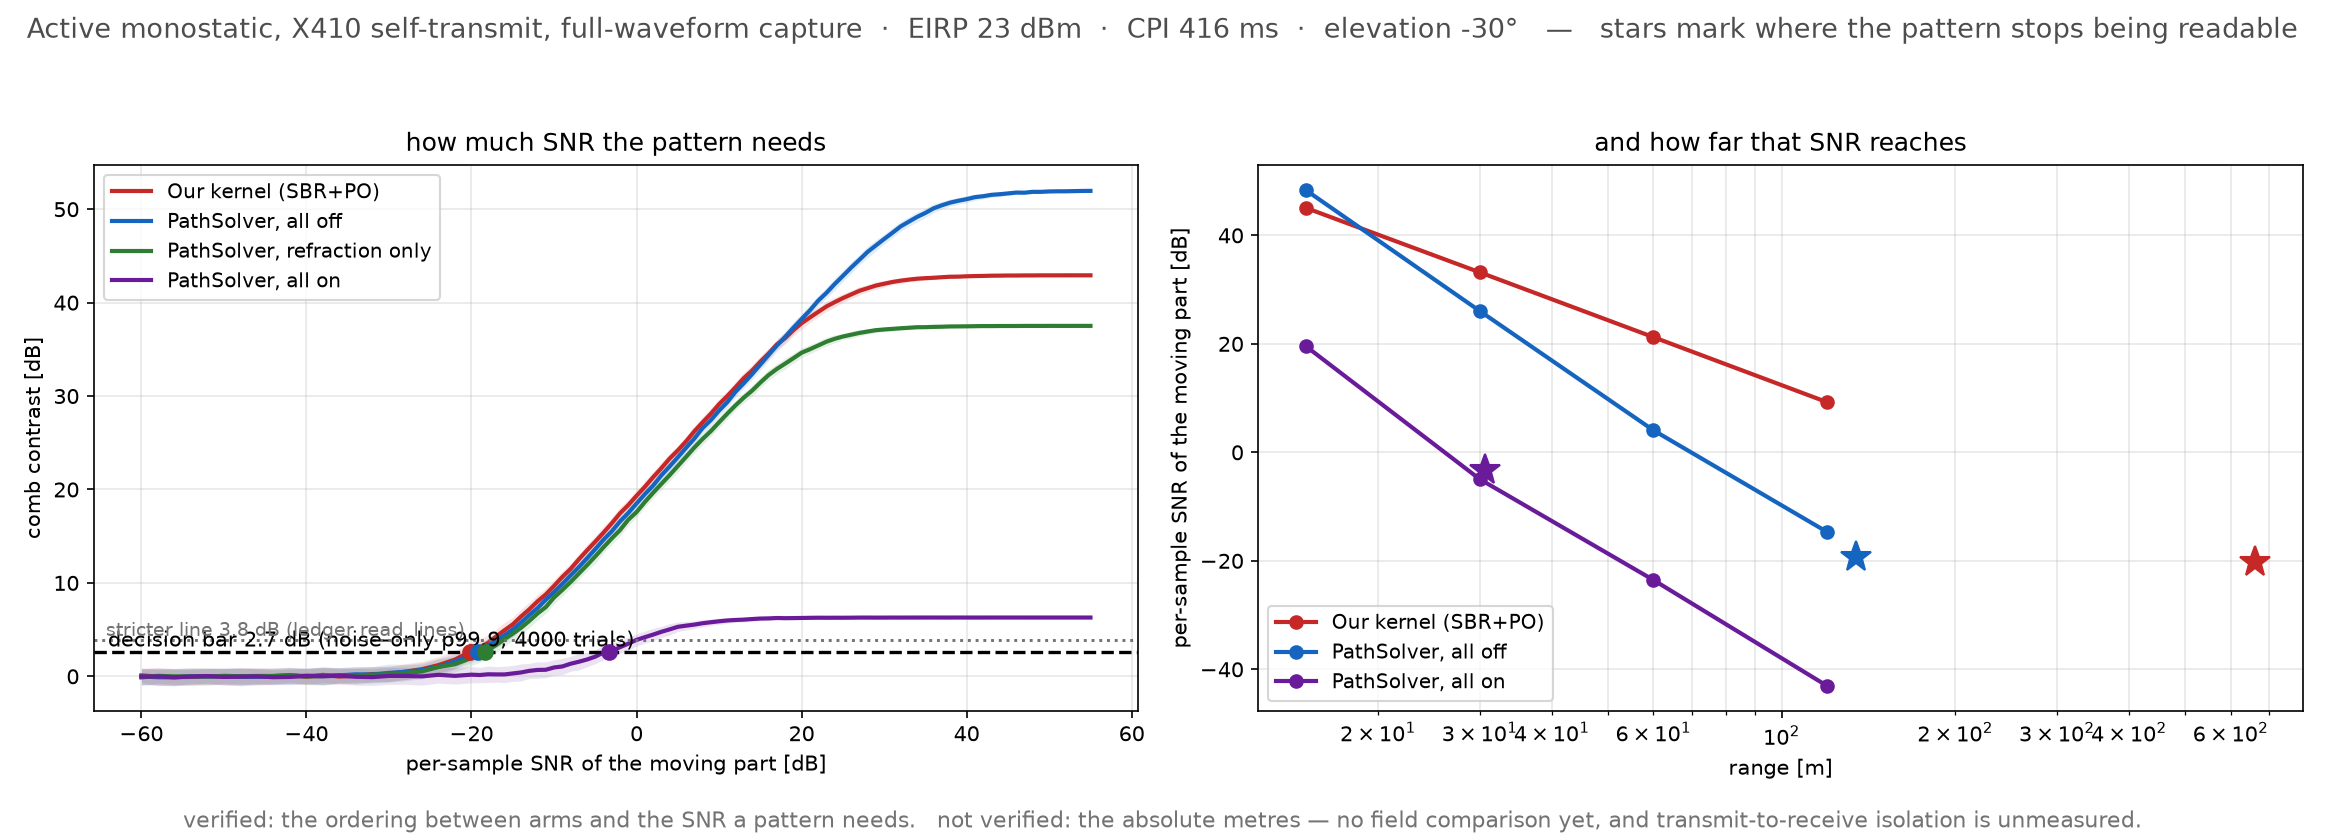
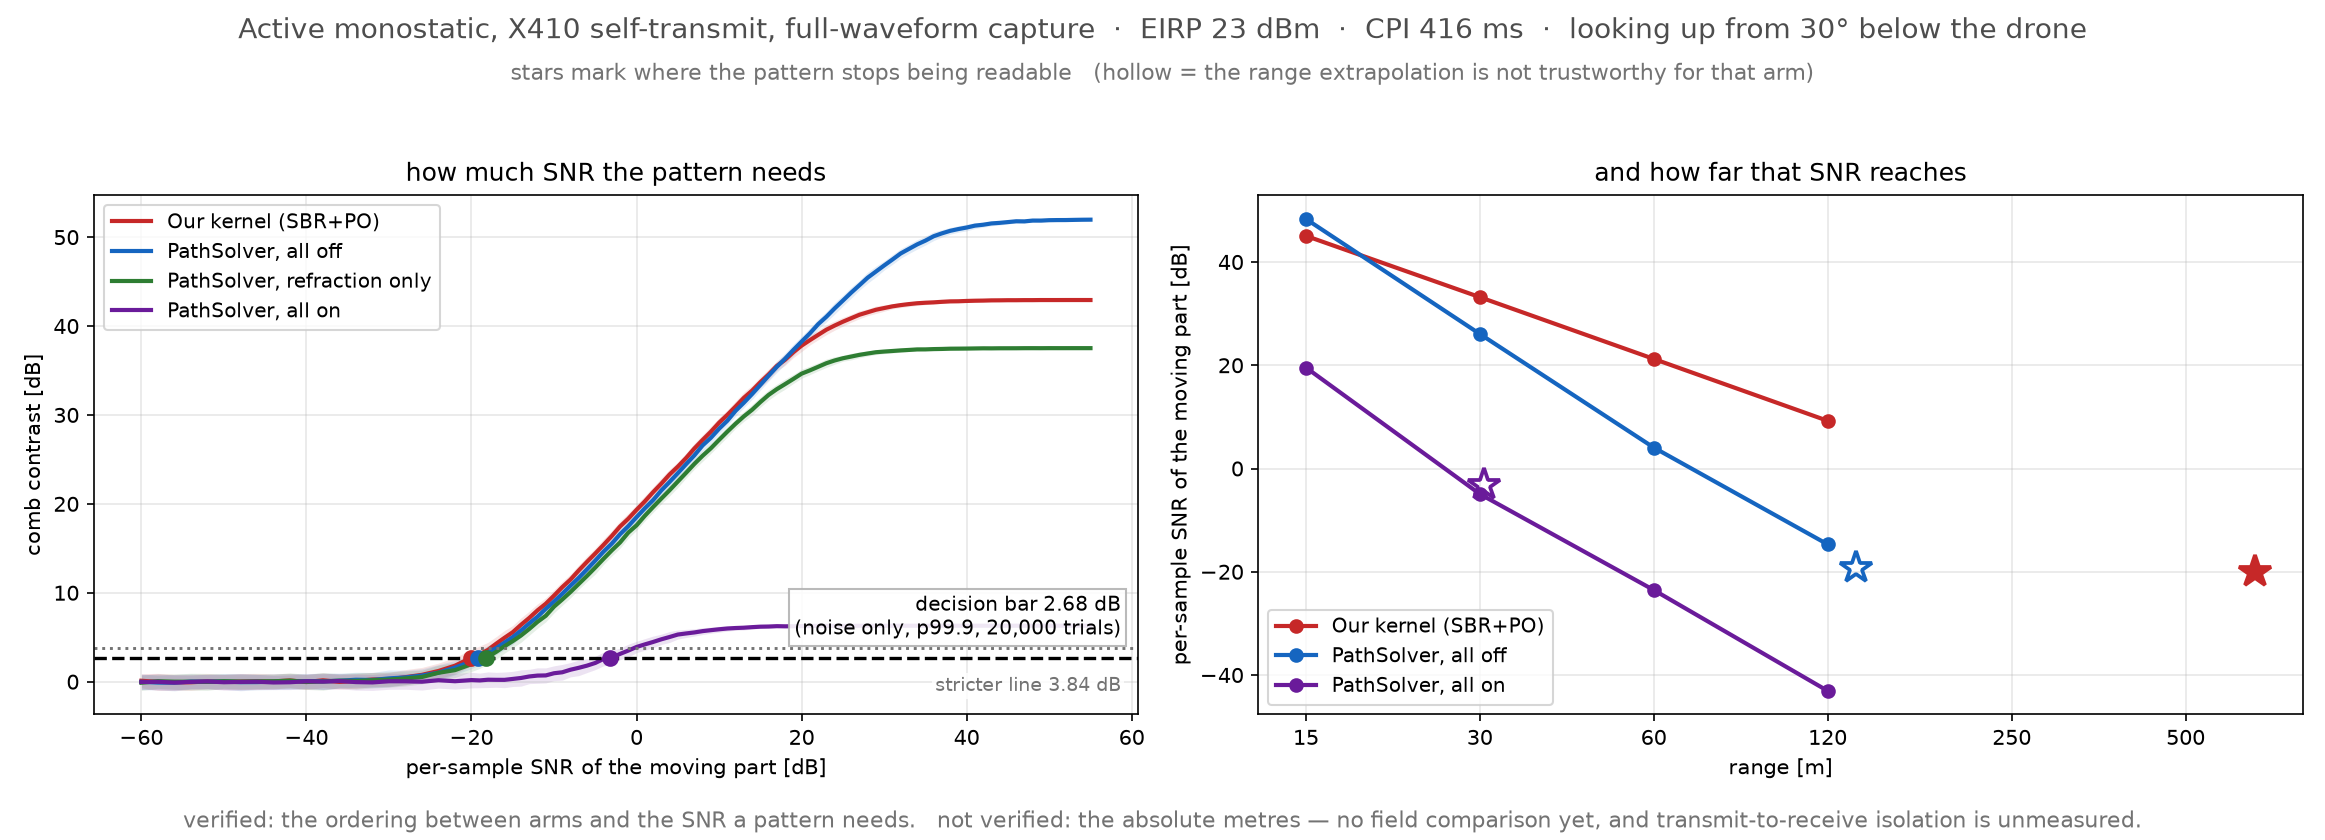
그림 정정 재생성 — 기하 문구·판정 막대 정본(20,000 시행)·라벨 겹침·거리 외삽 표시
- 캡션 «30° below level» → «looking up from 30° below the drone» (스위치 격자 4 장 ·
  클러터 3 장 · SNR 패널). 앙각 부호가 «센서가 아래에서 올려다봄» 이라 옛 문구는 반대였다.
- ⭐판정 막대를 게이트 **20,000 시행 경험적 p99.9 = 2.68 dB** 로 정본화(옛 4,000 시행 근사 2.66).
  정규 근사와 차 0.02 dB — 근사가 맞았음을 검산으로 남김.
- 라벨 겹침 제거(막대 두 줄을 오른쪽 상자로), 거리축 눈금 고정(15·30·60·120·250·500 m).
- ⛔거리 외삽을 못 믿는 팔(ps_off·ps_phys, 측정 p 가 규약과 2.5 벌어짐)은 별을 **비워** 그린다.
- SNR 패널 ⓐ(무늬가 녹는 STFT 다섯 장) 신설 — noise_snr_maps.png.

diff --git a/benchmark/noise_snr_figure_0818.py b/benchmark/noise_snr_figure_0818.py
@@ -76,6 +76,18 @@ def null_bar_db(el=EL):
         if f"{el:+.0f}" in FRAME["null_control"] else FRAME["null_control"][str(int(el))]
     cc = n["comb_contrast_db"]
     bar = cc["mean"] + 3.090 * cc["std"]
+    n_trial = n["n_trial"]
+    # ⭐정본은 게이트가 20,000 시행으로 **경험적** p99.9 를 낸 값이다(2026-08-18).
+    #   있으면 그것을 쓰고, 위 정규 근사는 검산용으로만 남긴다.
+    try:
+        G = json.load(open(os.path.join(ROOT, "outputs",
+                                        "noise_main_gates_n20000_0818.json"), encoding="utf-8"))
+        b = G["G3_bars"][f"el_minus{abs(int(el))}"]
+        bar_canon, n_trial = float(b["bar_noise_db"]), int(b["n_null"])
+        approx_err = round(abs(bar - bar_canon), 3)
+        bar = bar_canon
+    except Exception:
+        bar_canon, approx_err = None, None
     # 검산 — 정규 근사가 p95 를 얼마나 맞히나
     p95_pred = cc["mean"] + 1.645 * cc["std"]
     # ⚠원장에는 **선이 둘** 있다. 사전등록이 정한 막대는 p99.9 이고,
@@ -84,7 +96,10 @@ def null_bar_db(el=EL):
     rl = FRAME.get("read_lines", {}).get(str(int(el)), {})
     return dict(bar_db=round(bar, 3), mean=cc["mean"], std=cc["std"],
                 p95_ledger=cc["p95"], p95_normal_approx=round(p95_pred, 3),
-                p95_err_db=round(abs(p95_pred - cc["p95"]), 3), n_trial=n["n_trial"],
+                p95_err_db=round(abs(p95_pred - cc["p95"]), 3), n_trial=n_trial,
+                canon_source=("게이트 20,000 시행 경험적 p99.9" if bar_canon is not None
+                              else "정규 근사(20,000 판 없음)"),
+                normal_approx_minus_canon_db=approx_err,
                 rule_ko="⭐정본 막대 = 빗살 대비 귀무분포 p99.9 (사전등록 규칙, 정규 근사 mean+3.090σ)",
                 frame_readable_db=rl.get("readable_db"),
                 frame_undecidable_db=rl.get("undecidable_db"),
@@ -172,14 +187,18 @@ def main():
         if xs is not None:
             ax[0].plot([xs], [bar], "o", ms=7, color=col, zorder=5)
     ax[0].axhline(bar, color="k", ls="--", lw=1.6)
-    ax[0].text(ax[0].get_xlim()[0], bar, f"  decision bar {bar:.1f} dB "
-               f"(noise-only p99.9, {nb['n_trial']} trials)",
-               va="bottom", fontsize=10)
+    x1 = ax[0].get_xlim()[1]
+    ax[0].annotate(f"decision bar {bar:.2f} dB\n(noise only, p99.9, "
+                   f"{nb['n_trial']:,} trials)", xy=(x1, bar), xytext=(-8, 8),
+                   textcoords="offset points", ha="right", va="bottom", fontsize=9.5,
+                   bbox=dict(fc="white", ec="0.7", alpha=0.9, pad=2.5))
     if nb.get("frame_readable_db") is not None:
         ax[0].axhline(nb["frame_readable_db"], color="0.45", ls=":", lw=1.4)
-        ax[0].text(ax[0].get_xlim()[0], nb["frame_readable_db"],
-                   f"  stricter line {nb['frame_readable_db']:.1f} dB (ledger read_lines)",
-                   va="bottom", fontsize=9, color="0.45")
+        ax[0].annotate(f"stricter line {nb['frame_readable_db']:.2f} dB",
+                       xy=(x1, nb["frame_readable_db"]), xytext=(-8, -14),
+                       textcoords="offset points", ha="right", va="top",
+                       fontsize=9, color="0.45",
+                       bbox=dict(fc="white", ec="none", alpha=0.85, pad=1.5))
     ax[0].set_xlabel("per-sample SNR of the moving part [dB]")
     ax[0].set_ylabel("comb contrast [dB]")
     ax[0].set_title("how much SNR the pattern needs", pad=7)
@@ -196,8 +215,16 @@ def main():
                    label=label)
         xs, rng = rows[key]["snr_at_bar_db"], rows[key]["readable_range_m"]
         if xs is not None and rng:
-            ax[1].plot([rng], [xs], "*", ms=15, color=col, zorder=5)
+            ok = rows[key].get("range_extrapolation_trustworthy")
+            # ⛔거리 외삽을 못 믿는 팔은 별을 비워 그린다(엔진이 이미 거리로 레벨을 나른다)
+            ax[1].plot([rng], [xs], "*", ms=16, color=col, zorder=5,
+                       mfc=(col if ok else "none"), mew=1.8)
     ax[1].set_xscale("log")
+    from matplotlib.ticker import FixedLocator, NullLocator, FixedFormatter
+    tk = [15, 30, 60, 120, 250, 500, 1000]
+    ax[1].xaxis.set_major_locator(FixedLocator(tk))
+    ax[1].xaxis.set_major_formatter(FixedFormatter([str(t) for t in tk]))
+    ax[1].xaxis.set_minor_locator(NullLocator())      # 로그 보조 눈금이 겹쳐 읽힌다
     ax[1].set_xlabel("range [m]")
     ax[1].set_ylabel("per-sample SNR of the moving part [dB]")
     ax[1].set_title("and how far that SNR reaches", pad=7)
@@ -205,15 +232,18 @@ def main():
     ax[1].legend(fontsize=9.5, loc="lower left")
 
     fig.suptitle(f"{SC['label_en']}  ·  EIRP {SC['eirp_dbm']:.0f} dBm  ·  "
-                 f"CPI {SC['cpi_s']*1e3:.0f} ms  ·  elevation {EL:.0f}"
-                 f"{chr(176)}   —   stars mark where the pattern stops being readable",
-                 fontsize=13, color="0.3")
+                 f"CPI {SC['cpi_s']*1e3:.0f} ms  ·  looking up from "
+                 f"{abs(EL):.0f}{chr(176)} below the drone",
+                 fontsize=13.5, color="0.3")
+    fig.text(0.5, 0.905, "stars mark where the pattern stops being readable   "
+                         "(hollow = the range extrapolation is not trustworthy "
+                         "for that arm)", ha="center", fontsize=10.5, color="0.45")
     fig.text(0.5, 0.015,
              "verified: the ordering between arms and the SNR a pattern needs.   "
              "not verified: the absolute metres — no field comparison yet, "
              "and transmit-to-receive isolation is unmeasured.",
              ha="center", fontsize=10.5, color="0.45")
-    fig.tight_layout(rect=(0, 0.045, 1, 0.93))
+    fig.tight_layout(rect=(0, 0.045, 1, 0.895))
     p = f"{FIG}/noise_snr_panels.png"
     fig.savefig(p, dpi=150)
     plt.close(fig)
@@ -283,7 +313,8 @@ def _maps():
         a.set_title("no noise" if s is None else f"SNR {s:.0f} dB", pad=7)
         a.set_xlabel("time [ms]")
     ax[0].set_ylabel("Doppler [Hz]")
-    fig.suptitle("the same run as noise is added — each panel scaled to its own peak",
+    fig.suptitle("the same run as noise is added, looking up from 30" + chr(176) +
+                 " below the drone — each panel scaled to its own peak",
                  fontsize=14, color="0.35")
     fig.tight_layout(rect=(0, 0, 1, 0.92))
     p = f"{FIG}/noise_snr_maps.png"
